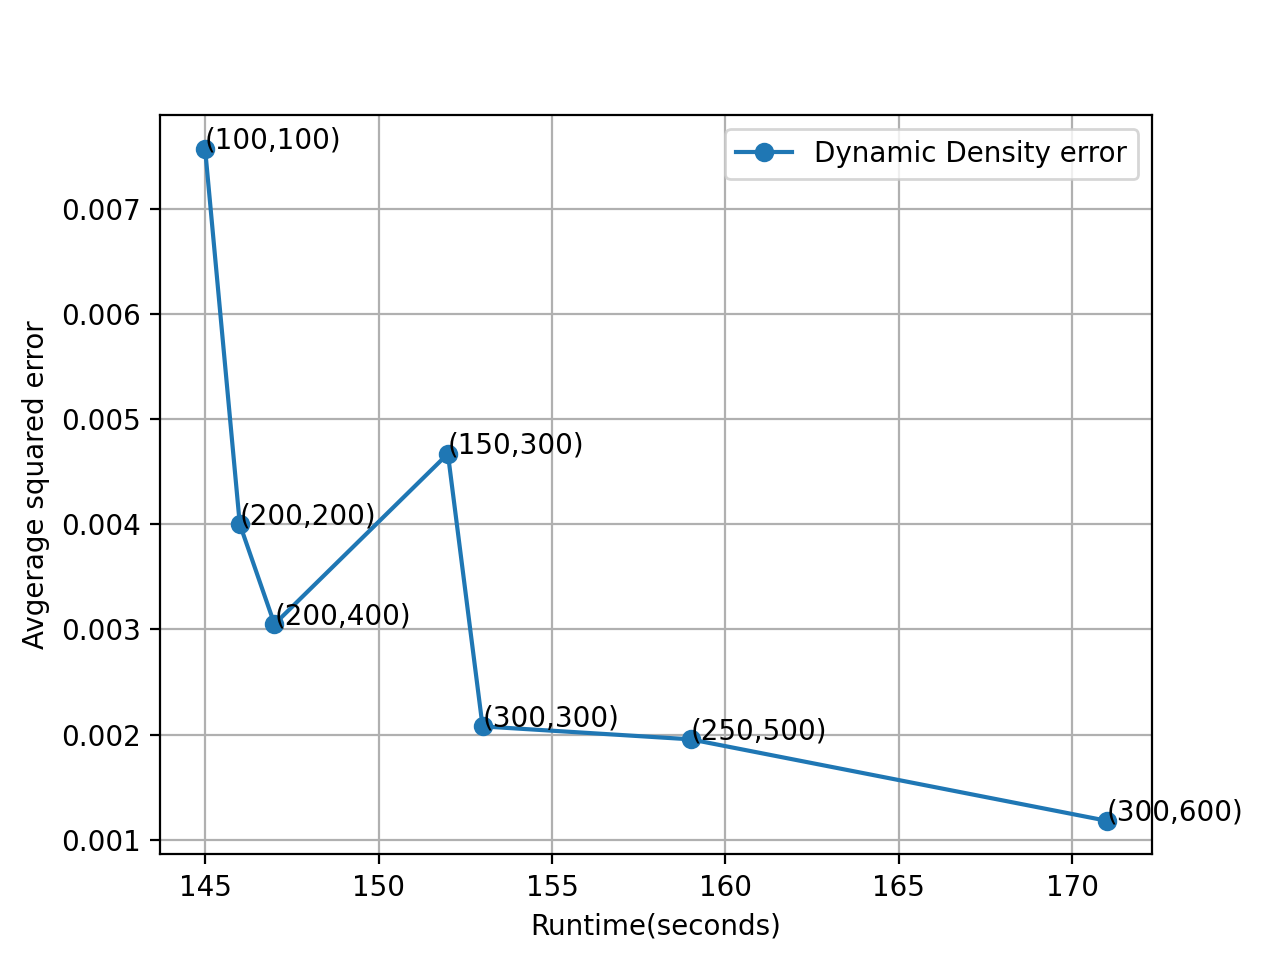
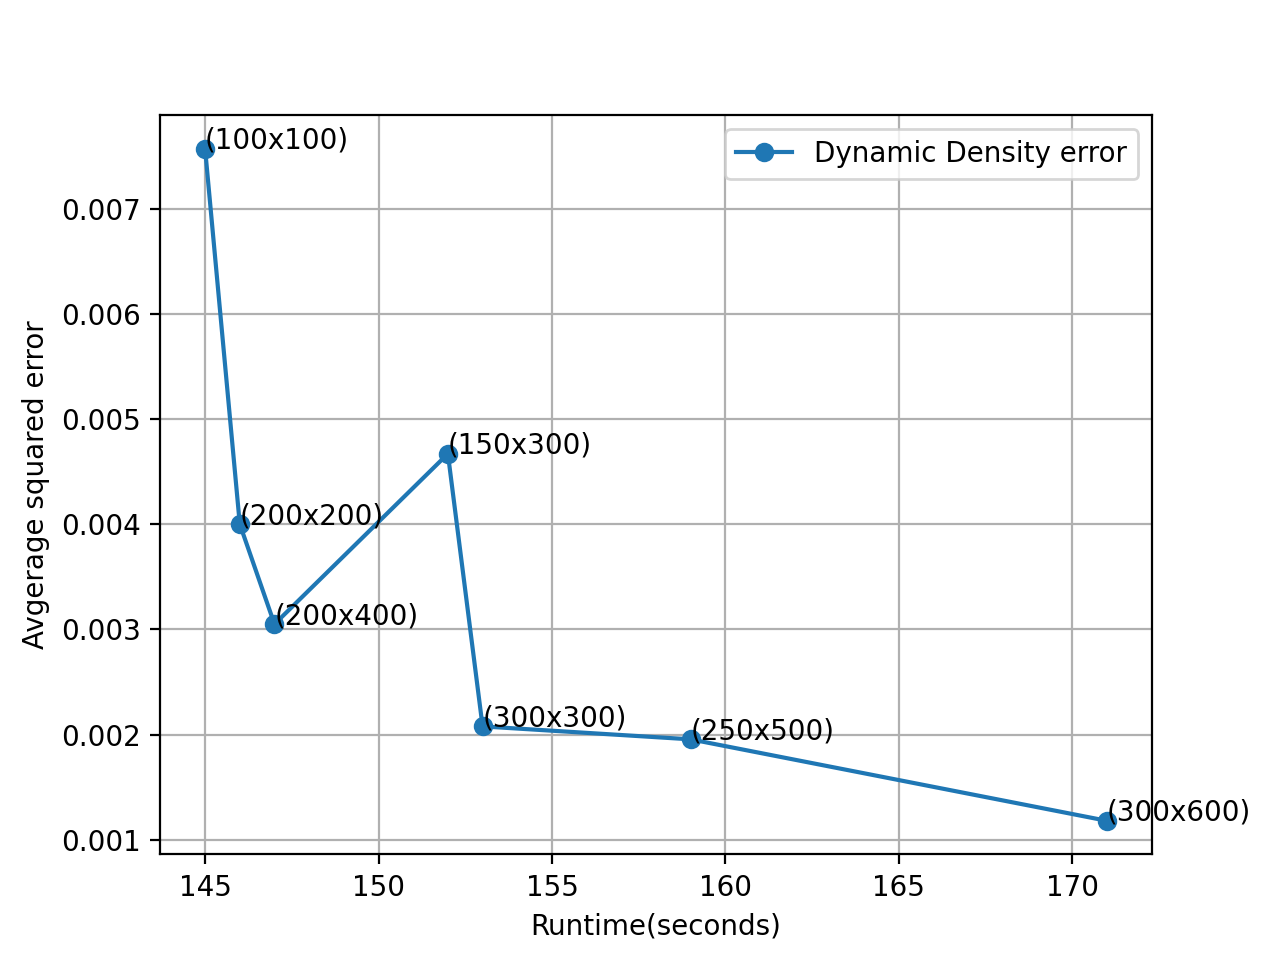
method2 data tables created

diff --git a/Analysis/outputs/method2sys2/plot_method2.py b/Analysis/outputs/method2sys2/plot_method2.py
@@ -39,7 +39,7 @@ def main():
 	plt.plot(t,q,label="Queue Density error",marker='o')
 	plt.legend()
 	for i in range(len(t)):
-		plt.annotate("("+str(runtime[i][0])+","+str(runtime[i][1])+")",(t[i],q[i]));
+		plt.annotate("("+str(runtime[i][0])+"x"+str(runtime[i][1])+")",(t[i],q[i]));
 	plt.grid()
 	plt.savefig("plot1.png",dpi=200)
 	plt.show()
@@ -50,9 +50,23 @@ def main():
 	plt.plot(t,d,label="Dynamic Density error",marker='o')
 	plt.legend()
 	for i in range(len(t)):
-		plt.annotate("("+str(runtime[i][0])+","+str(runtime[i][1])+")",(t[i],d[i]));
+		plt.annotate("("+str(runtime[i][0])+"x"+str(runtime[i][1])+")",(t[i],d[i]));
 	plt.grid()
 	plt.savefig("plot2.png",dpi=200)
+	plt.show()
+	
+	cell_text=[]
+	for i in range(len(t)):
+		cell_text.append([str(runtime[i][0])+" x "+str(runtime[i][1]),t[i],q[i],d[i]])
+	table=plt.table(cellText=cell_text,colLabels=['Resolution','Runtime(sec)','Queue Density Error','Dynamic Density Error'],loc='center')
+	ax=plt.gca()
+	ax.get_xaxis().set_visible(False)
+	ax.get_yaxis().set_visible(False)
+	plt.box(on=None)
+	table.scale(1,1.5)
+	fig=plt.gcf();
+	fig.set_size_inches(10,7)
+	plt.savefig("table1.png",dpi=200)
 	plt.show()
 	
 	q = list(map(lambda x:100.0/(1.0+x),q))
@@ -60,24 +74,38 @@ def main():
 	
 	plt.figure()
 	plt.xlabel("Runtime(seconds)")
-	plt.ylabel("Avgerage squared error")
-	plt.plot(t,q,label="Queue Density error",marker='o')
+	plt.ylabel("Utility Percentage")
+	plt.plot(t,q,label="Queue Density utility percentage",marker='o')
 	plt.legend()
 	for i in range(len(t)):
-		plt.annotate("("+str(runtime[i][0])+","+str(runtime[i][1])+")",(t[i],q[i]));
+		plt.annotate("("+str(runtime[i][0])+"x"+str(runtime[i][1])+")",(t[i],q[i]));
 	plt.grid()
 	plt.savefig("plot3.png",dpi=200)
 	plt.show()
 	
 	plt.figure()
 	plt.xlabel("Runtime(seconds)")
-	plt.ylabel("Avgerage squared error")
-	plt.plot(t,d,label="Dynamic Density error",marker='o')
+	plt.ylabel("Utility percentage")
+	plt.plot(t,d,label="Dynamic Density utility percentage",marker='o')
 	plt.legend()
 	for i in range(len(t)):
-		plt.annotate("("+str(runtime[i][0])+","+str(runtime[i][1])+")",(t[i],d[i]));
+		plt.annotate("("+str(runtime[i][0])+"x"+str(runtime[i][1])+")",(t[i],d[i]));
 	plt.grid()
 	plt.savefig("plot4.png",dpi=200)
+	plt.show()
+	
+	cell_text=[]
+	for i in range(len(t)):
+		cell_text.append([str(runtime[i][0])+" x "+str(runtime[i][1]),t[i],q[i],d[i]])
+	table = plt.table(cellText=cell_text,colLabels=['Resolution','Runtime(sec)','Queue Density Utility(%)','Dynamic Density Utility(%)'],loc='center')
+	ax=plt.gca()
+	ax.get_xaxis().set_visible(False)
+	ax.get_yaxis().set_visible(False)
+	plt.box(on=None)
+	table.scale(1,1.5)
+	fig=plt.gcf();
+	fig.set_size_inches(10,7)
+	plt.savefig("table2.png",dpi=200)
 	plt.show()
 	
 
